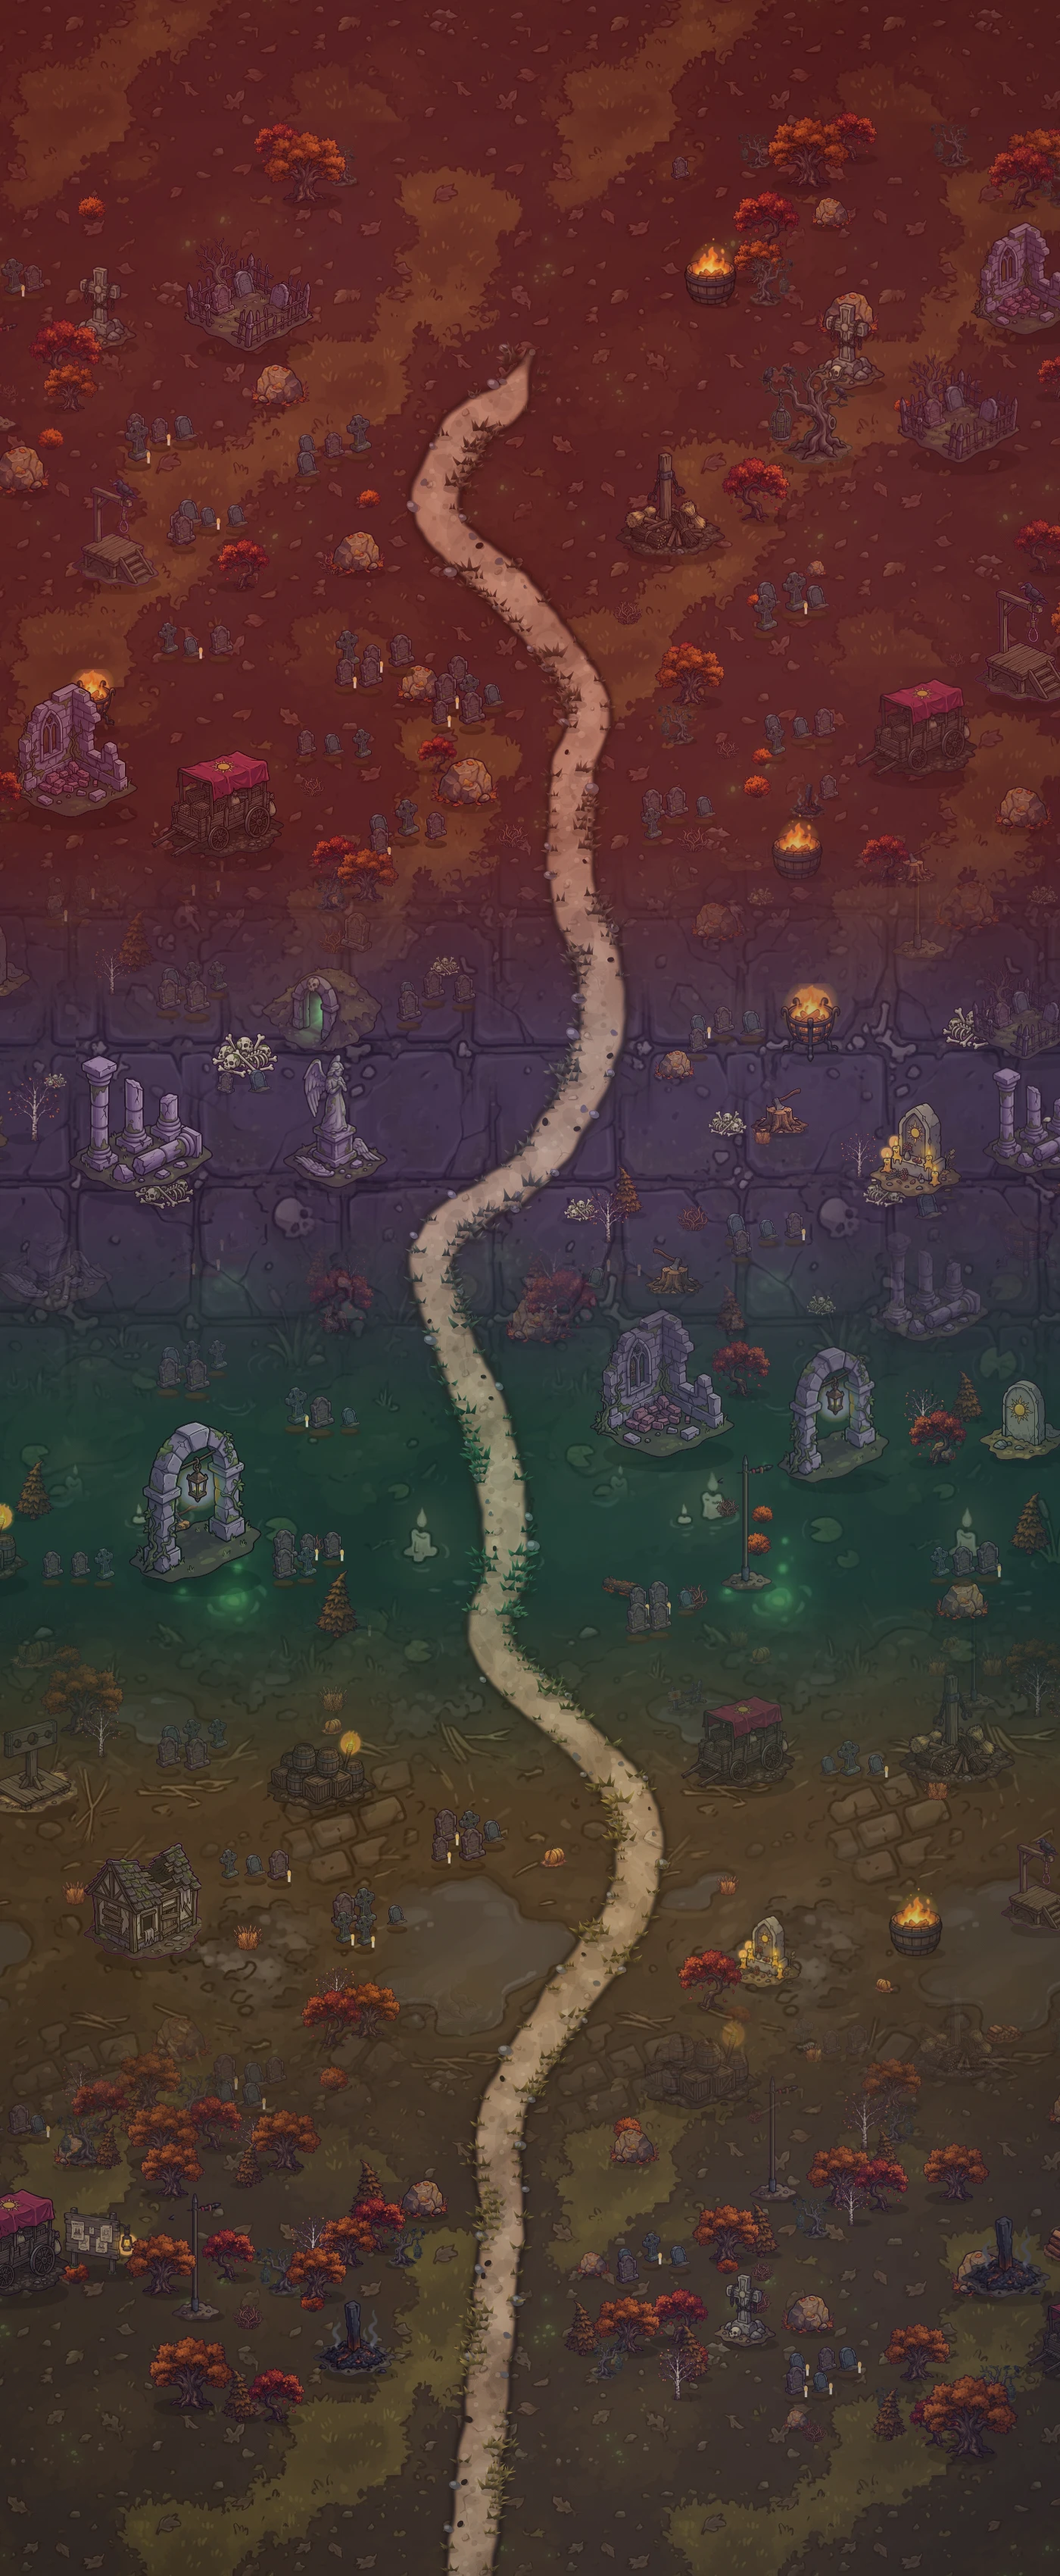
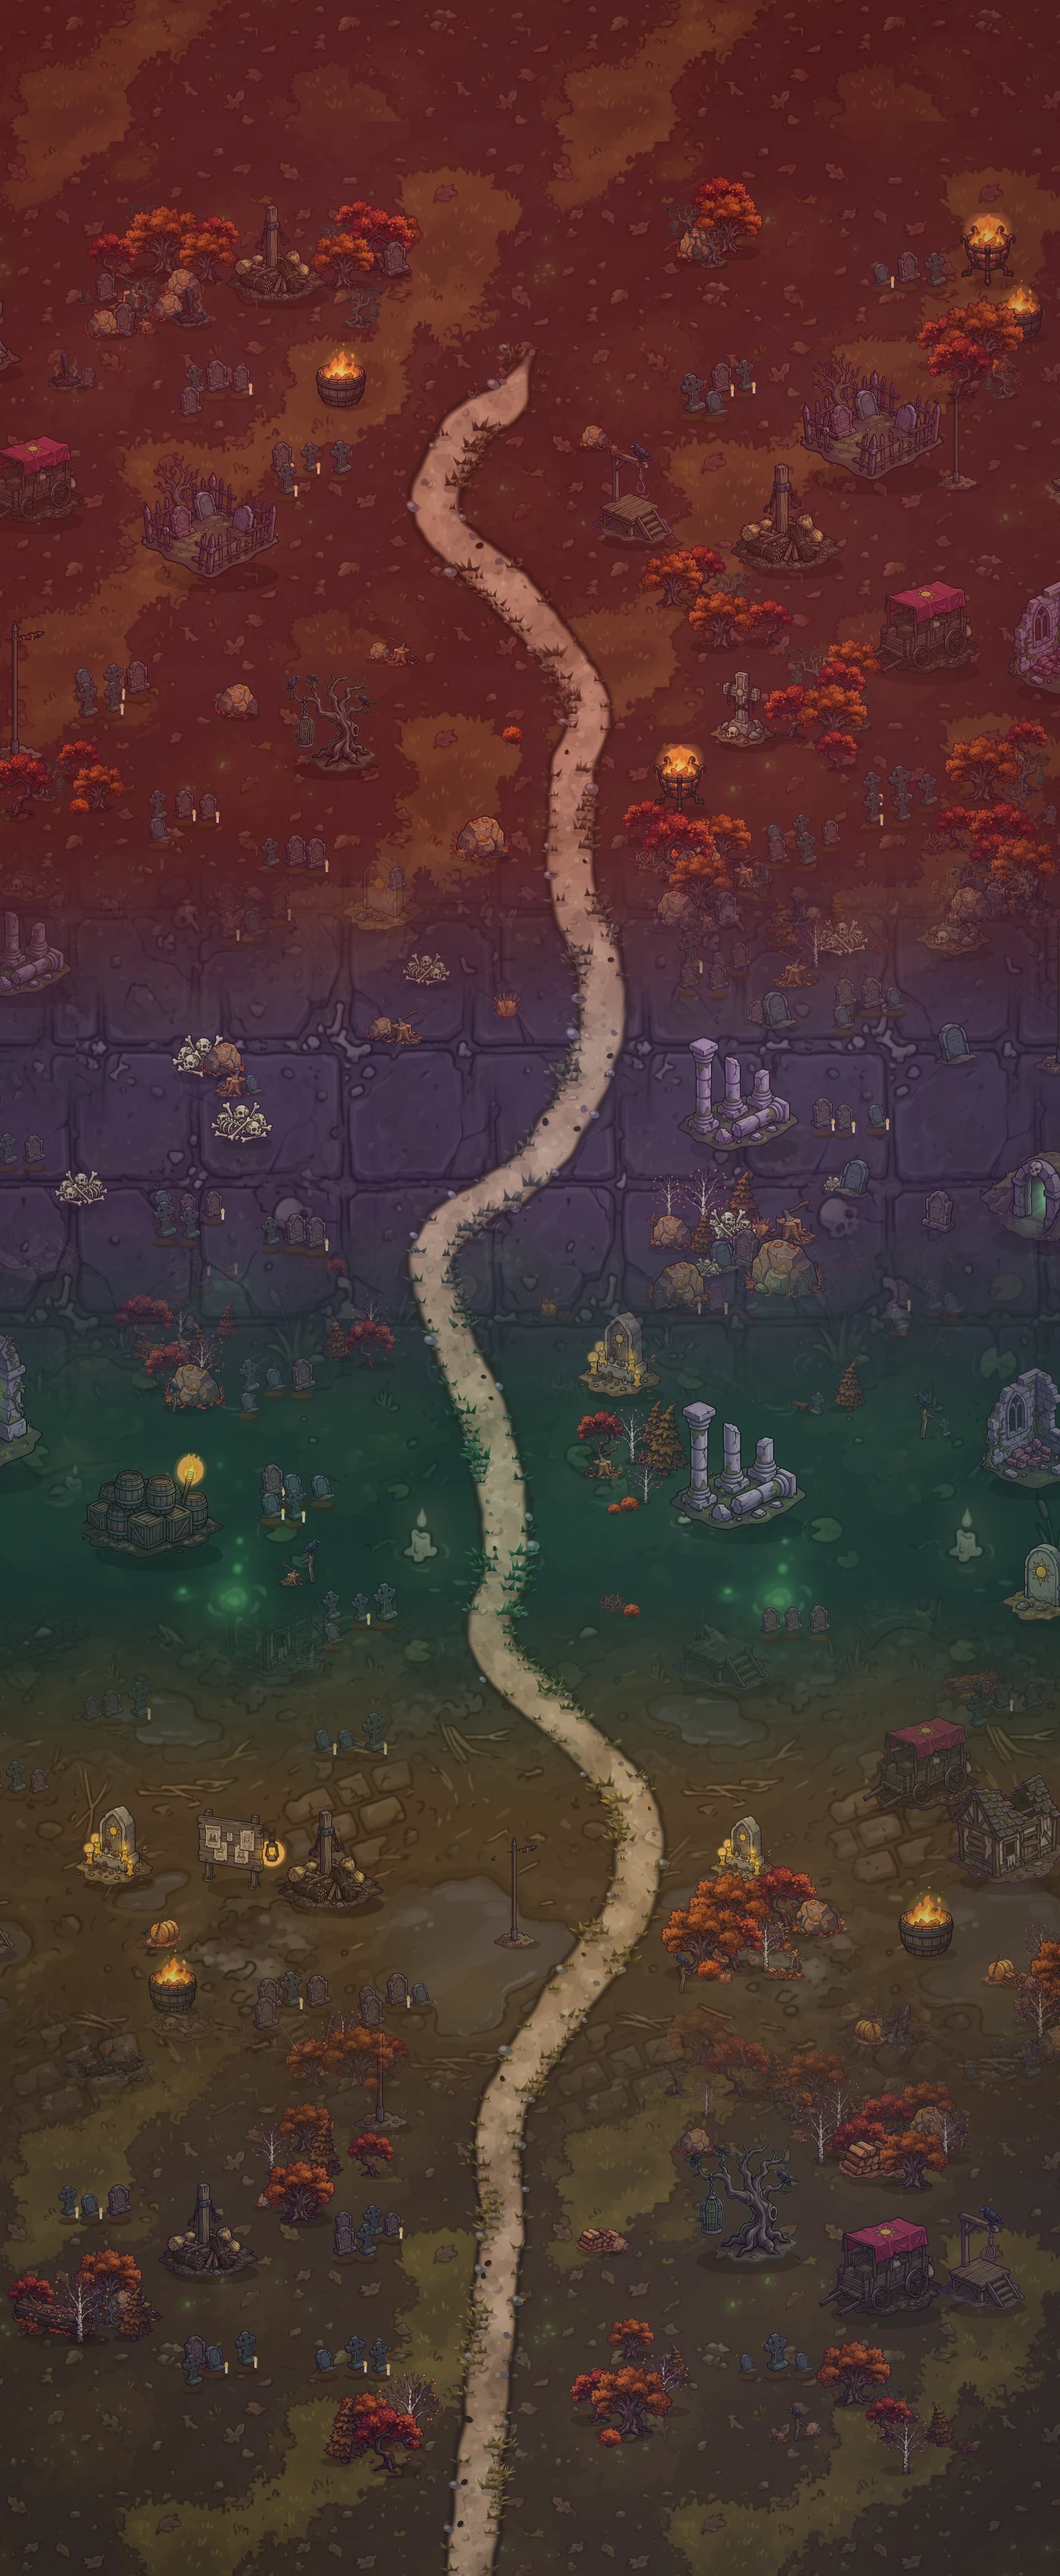
Sefer haritası: 4 kat çözünürlük (4 şeride bölünmüş, yalnız görünen şeritler yüklenir) + doğal dekor yerleşimi (korular, ağaç dibinde çalı, kaya öbekleri x1,6, göller açıklıkta ve kıyısında sazlık/taş) (yayın 637)

diff --git a/sinir-kalesi/js/game.js b/sinir-kalesi/js/game.js
@@ -1768,16 +1768,25 @@ function renderBackground0(lv, paths, res) {
   };
   // vaha gölleri ve çalılar (yerde, gölgesiz)
   const DK = lv.decorK || 1; // dekor yoğunluğu (bölge haritası daha dolu)
+  // 16 Eki (Caner: "haritadaki nesneleri mantıklı yerleştir, rastgele olmasın, doğal olsun"): göl birbirine ve yola yaslanmaz, ağaçlar içine
+  // girmez (pondsAt → props), kenarına (alt yarım daire) sazlık/çalı öbeği ve bir iki taş dizilir
+  const pondsAt = [];
   for (let i = 0, n = 0; i < 300 * DK && n < (th.ponds || 0) * DK; i++) {
-    const x = 90 + rnd() * (W - 180), y = 90 + rnd() * (H - 180), im = spr(th.pondSpr || 's2_pond_2');
-    if (blocked(x, y, 34) || !im) continue;
-    n++;
-    drawSprite(g, im, x, y, 60 + rnd() * 30, 0.5);
-    for (let k = 0; k < 4; k++) { const b = spr(th.bushSpr ? th.bushSpr[k % th.bushSpr.length] : 's2_bush_' + (1 + (k % 2))); if (b) drawSprite(g, b, x + (rnd() - 0.5) * 80, y + 18 + rnd() * 10, 16 + rnd() * 8); }
+    const x = 90 + rnd() * (W - 180), y = 90 + rnd() * (H - 180), im = spr(th.pondSpr || 's2_pond_2'), pw = 60 + rnd() * 30;
+    if (blocked(x, y, 40) || !im || pondsAt.some(o => Math.hypot(o[0] - x, o[1] - y) < 150)) continue;
+    n++; pondsAt.push([x, y, pw * 0.55]);
+    drawSprite(g, im, x, y, pw, 0.5);
+    const a0 = rnd() * 6.283, nb = 3 + Math.floor(rnd() * 2);
+    for (let k = 0; k < nb; k++) { // kıyı: göl elipsinin kenarında, yan yana sazlık öbeği (alt kıyı önde)
+      const a = a0 + k * 0.5 + rnd() * 0.25, b = spr(th.bushSpr ? th.bushSpr[(k + i) % th.bushSpr.length] : 's2_bush_' + (1 + (k % 2)));
+      if (b) drawSprite(g, b, x + Math.cos(a) * pw * 0.48, y + Math.sin(a) * pw * 0.2 + 6, 13 + rnd() * 7);
+    }
+    const rk = th.rockSpr && spr(th.rockSpr[i % th.rockSpr.length]);
+    if (rk) { const a = a0 + Math.PI + rnd(), m = SPR_META[th.rockSpr[i % th.rockSpr.length]], w = m ? m[0] * ROCK_K * (th.rockK || 1) * 0.8 : 14; drawSprite(g, rk, x + Math.cos(a) * pw * 0.5, y + Math.sin(a) * pw * 0.22 + 5, w); }
   }
   const bushSeen = [], brnd = seeded(lv.name.length * 29 + 5); // ayrı tohum: çeşit ve aynalama yerleşimi kaydırmaz
   const rockSeen = [];
-  if (lv.decorK) { // sefer haritası (pişirilmiş zemin): eski düz dağılım kalır; bölüm haritalarında kaya ve çalıyı layoutDecor yerleştirir
+  if (false) { // 16 Eki: sefer haritası da layoutDecor kullanır (eski düz dağılım kapalı)
   for (let i = 0, n = 0; i < 400 * DK && n < (th.bushes || 0) * DK; i++) {
     const x = rnd() * W, y = rnd() * H;
     if (blocked(x, y, 6)) continue;
@@ -1805,7 +1814,7 @@ function renderBackground0(lv, paths, res) {
   // bölümde yol dışı boş kalmasın: tema sayısının ~2 katı ağaç, yarısı küçük kümeler halinde (koru gibi)
   // harabeler (yıkık kilise duvarı, kırık sütunlar, mahzen girişi... nm_ruin_*) ve mezarlık kümeleri: yol dışındaki boşluklara,
   // ağaçlardan önce yerleşir (ağaçlar bunlara binmez)
-  const props = [];
+  const props = pondsAt.slice(); // göllerin üstüne ağaç/harabe binmez
   if (NECRO && (!lv.decorK || th.dense || th.deco)) { // 1. sefer (dense) haritasında da: her mekân parçası tam ekran çizilir, ~1/5'i görünür → 4 kat
     const ruins = (th.ruinSpr || [1, 2, 3, 4, 5, 6].map(n => 'nm_ruin_' + n)).filter(n => spr(n));
     const MK = lv.decorK ? 4 : 1, nR = (ruins.length ? th.ruinN || (th === THEMES.graveyard || th === THEMES.necrogate ? 3 : 2) : 0) * MK, nG = (th === THEMES.graveyard ? 5 : 3) * MK;
@@ -1876,8 +1885,10 @@ function renderBackground0(lv, paths, res) {
   const TGAP = th.dense ? 14 : 18; // orman temalarında ağaçlar daha sık
   const treeOk = (x, y, s) => x > -10 && x < W + 10 && y > 20 && y < H + 10 && !blocked(x, y, s) && !trees.some(t => Math.hypot(t[0] - x, (t[1] - y) * 1.5) < TGAP) && !props.some(o => Math.hypot(o[0] - x, o[1] - y) < o[2] + 12);
   const extra = []; // bölüm haritası: kaya ve çalılar ağaçlarla birlikte y sırasıyla çizilir (ağaç dibindeki çalı gövdenin önünde kalır)
-  if (!lv.decorK) layoutDecor(lv, paths, th, rnd, blocked, props, trees, treeOk, TN, extra, R);
-  else for (let i = 0; i < 3000 * DK && trees.length < TN; i++) {
+  // 16 Eki: sefer haritası da doğal yerleşim (korular, ağaç dibinde çalı, kaya öbekleri); kaya 1,6 kat (Caner: "hiç kaya göremedim")
+  const thL = lv.decorK ? Object.assign({}, th, { rocks: Math.round(th.rocks * DK * 1.6), bushes: Math.round((th.bushes || 0) * DK) }) : th;
+  layoutDecor(lv, paths, thL, rnd, blocked, props, trees, treeOk, TN, extra, R);
+  if (false) for (let i = 0; i < 3000 * DK && trees.length < TN; i++) {
     const x = rnd() * W, y = rnd() * H, s = 10 + rnd() * 9;
     if (!treeOk(x, y, s)) continue;
     trees.push([x, y, s]);
@@ -16255,6 +16266,17 @@ fetch('img/map_bolge.json' + (window.SURUM ? '?v=' + window.SURUM : ''), { cache
     im.src = 'img/' + P.file + (window.SURUM ? '?v=' + window.SURUM : '');
   }
 }).catch(() => { REGION_PRE.wait = false; });
+// 16 Eki: yüksek çözünürlüklü harita şeritleri (map_bolge<N>_t<k>.webp): yalnız ekrana giren (ve bir şerit ötesi) yüklenir, öteki bölgeninkiler bırakılır
+function drawMapTiles(ep, X, V) {
+  const P = REGION_PRE[ep]; if (!P || !P.tiles || REGION_BG[ep] && REGION_BG[ep].noPre) return;
+  for (const e in REGION_PRE) if (+e !== ep && REGION_PRE[e] && REGION_PRE[e].tiles) for (const t of REGION_PRE[e].tiles) t.img = null; // bellek: öteki bölge
+  const pad = (V[3] - V[1]) * 0.6;
+  for (const t of P.tiles) {
+    if (t.y > V[3] + pad || t.y + t.h < V[1] - pad) continue;
+    if (!t.img) { t.img = new Image(); t.img.src = 'img/' + t.file + (window.SURUM ? '?v=' + window.SURUM : ''); }
+    if (t.img.complete && t.img.naturalWidth && t.y < V[3] && t.y + t.h > V[1]) ctx.drawImage(t.img, X.x, t.y, X.w, t.h);
+  }
+}
 function regionRoad(E) {
   const P = [E.start, ...E.nodes, ...gateApproach([E.nodes[E.nodes.length - 1], E.end]).slice(1)], out = [];
   for (let i = 0; i < P.length - 1; i++) { // Catmull-Rom: noktaların hepsinden geçen yumuşak eğri
@@ -16653,6 +16675,7 @@ function drawRegionMap(E, ep, st) {
   const bg = regionBg(ep), R = REGION_BG[ep]; if (!bg) return;
   const X = mapExt(bg), z = MAPCAM.z, V = [(VIS.l - MAPCAM.tx) / z, (VIS.t - MAPCAM.ty) / z, (VIS.r - MAPCAM.tx) / z, (VIS.b - MAPCAM.ty) / z]; // ekranda görünen dünya kutusu
   ctx.drawImage(bg, X.x, X.y, X.w, X.h);
+  drawMapTiles(ep, X, V);
   const road = R.road[0], dt = Math.min(0.05, time - (MAPFX.last || time)); MAPFX.last = time;
   drawBgLights(R.lights, V);
   drawGraveHands(R.hands, uiParts); drawBanners(R.banners, V);
@@ -18886,11 +18909,22 @@ window.__game = {
     for (let i = 0; i < n; i++) { delete THUMB[i]; thumbOf.at = -1; const t = thumbOf(i, true); g.drawImage(t, (i % cols) * 480, Math.floor(i / cols) * 270); delete THUMB[i]; }
     return { n, w: c.width, h: c.height, data: c.toDataURL('image/webp', 0.88) };
   },
-  bakeRegion(ep, bx, by, res = 2) { // tools/harita-pisir.js: bölge haritası zeminini verilen taşma payıyla baştan sona çizer
-    if (EPISODES[ep - 1].vert) res = Math.min(res, MAPV.res); // dikey harita uzun: bellek için daha düşük çözünürlük
+  bakeRegion(ep, bx, by, res = 2, nT = 0) { // tools/harita-pisir.js: bölge haritası zeminini verilen taşma payıyla baştan sona çizer
+    // 16 Eki (Caner: "harita bulanık"): nT > 0 ise yüksek çözünürlükte çizilir ve nT yatay şeride bölünür (tiles; oyunda yalnız görünen şeritler yüklenir);
+    // data yine MAPV.res'e küçültülmüş tek görsel (şeritler gelene kadar ve yedek)
+    if (EPISODES[ep - 1].vert && !nT) res = Math.min(res, MAPV.res); // dikey harita uzun: bellek için daha düşük çözünürlük
     const B0 = BLEED; BLEED = { x: bx, y: by }; delete REGION_BG[ep]; REGION_BG[ep] = { parts: [], res, noPre: true };
     let c; for (let i = 0; i < 20 && !(c = REGION_BG[ep].done); i++) regionBg(ep);
-    const R = REGION_BG[ep], out = { m: c.m, ext: c.ext, res, w: c.width, h: c.height, lights: R.lights, banners: R.banners, hands: R.hands, data: c.toDataURL('image/webp', 0.9) };
+    const R = REGION_BG[ep], out = { m: c.m, ext: c.ext, res, w: c.width, h: c.height, lights: R.lights, banners: R.banners, hands: R.hands };
+    if (nT && c.ext) {
+      const lo = document.createElement('canvas'), k = MAPV.res / res; lo.width = Math.round(c.width * k); lo.height = Math.round(c.height * k);
+      const lg = lo.getContext('2d'); lg.imageSmoothingQuality = 'high'; lg.drawImage(c, 0, 0, lo.width, lo.height); out.data = lo.toDataURL('image/webp', 0.9); out.res = MAPV.res;
+      out.tiles = []; const bh = Math.ceil(c.height / nT);
+      for (let i = 0; i < nT; i++) {
+        const y0 = i * bh, h = Math.min(bh, c.height - y0), t = document.createElement('canvas'); t.width = c.width; t.height = h;
+        t.getContext('2d').drawImage(c, 0, -y0); out.tiles.push({ y: c.ext.y + y0 / res, h: h / res, data: t.toDataURL('image/webp', 0.88) });
+      }
+    } else out.data = c.toDataURL('image/webp', 0.9);
     BLEED = B0; delete REGION_BG[ep]; return out;
   },
   openGrave() { const h = G && G.hatches.find(q => q.grave && q.state === 'closed'); if (!h) return false; G.gold += GRAVE.cost; return openHatch(h); }, // test: mezar bekçisini kaldır

diff --git a/sinir-kalesi/tools/harita-pisir.js b/sinir-kalesi/tools/harita-pisir.js
@@ -4,7 +4,7 @@
 // Sunucu 8765'te açıkken: node tools/harita-pisir.js   (taşma payı: 20:9 telefon ve 4:3 tablete yeter; daha geniş pencerede oyun kendisi çizer)
 const { chromium } = require('playwright');
 const fs = require('fs'), path = require('path');
-const BX = 180, BY = 110, RES = 2;
+const BX = 180, BY = 110, RES = 2, HI = 4, NT = 4; // 16 Eki: dikey bölge haritaları HI çözünürlükte NT şerit (map_bolge<N>_t<k>.webp) + RES'te yedek
 (async () => {
   const b = await chromium.launch(); const p = await b.newPage({ viewport: { width: 960, height: 540 } });
   const errs = []; p.on('pageerror', e => errs.push(e.message));
@@ -14,10 +14,12 @@ const BX = 180, BY = 110, RES = 2;
   const eps = await p.evaluate(() => EPISODES.map((E, i) => (E.zones ? i + 1 : 0)).filter(Boolean));
   const img = path.join(__dirname, '..', 'img'), meta = {};
   for (const ep of eps) {
-    const r = await p.evaluate(([ep, bx, by, res]) => window.__game.bakeRegion(ep, bx, by, res), [ep, BX, BY, RES]);
+    const vert = await p.evaluate((ep) => !!EPISODES[ep - 1].vert, ep);
+    const r = await p.evaluate(([ep, bx, by, res, nt]) => window.__game.bakeRegion(ep, bx, by, res, nt), [ep, BX, BY, vert ? HI : RES, vert ? NT : 0]);
     const file = `map_bolge${ep}.webp`;
     fs.writeFileSync(path.join(img, file), Buffer.from(r.data.split(',')[1], 'base64'));
     meta[ep] = { file, m: r.m, ext: r.ext, res: r.res, lights: r.lights, banners: r.banners, hands: r.hands }; // ext: dikey haritanın dünya kutusu
+    if (r.tiles) meta[ep].tiles = r.tiles.map((t, k) => { const f = `map_bolge${ep}_t${k}.webp`; fs.writeFileSync(path.join(img, f), Buffer.from(t.data.split(',')[1], 'base64')); console.log(' ', f, Math.round(fs.statSync(path.join(img, f)).size / 1024) + ' KB'); return { file: f, y: t.y, h: t.h }; });
     console.log(file, r.w + 'x' + r.h, Math.round(fs.statSync(path.join(img, file)).size / 1024) + ' KB', 'ışık', r.lights.length, 'sancak', r.banners.length, 'el', r.hands.length);
   }
   fs.writeFileSync(path.join(img, 'map_bolge.json'), JSON.stringify(meta));

diff --git a/sinir-kalesi/index.html b/sinir-kalesi/index.html
@@ -17,7 +17,7 @@
 <canvas id="game" aria-label="Sınır Kalesi oyun alanı"></canvas>
 <script>
   // Sürüm damgası: her yayında artırılır; tarayıcı eski önbellek kopyasını kullanmaz (js ve görseller).
-  window.SURUM = '636';
+  window.SURUM = '637';
   // dil: kayıtlı seçim (yoksa Türkçe); tr/en dışındakiler için çeviri sözlüğü dil.js'ten önce yüklenir
   window.__dilYukle = (function () {
     var l = null; try { l = localStorage.getItem('sinirKalesi.lang'); } catch (e) {}

diff --git a/sinir-kalesi/yayin.html b/sinir-kalesi/yayin.html
@@ -11,7 +11,7 @@
 <canvas id="game" aria-label="Sınır Kalesi oyun alanı"></canvas>
 <script>
   // Sürüm damgası: her yayında artırılır; tarayıcı eski önbellek kopyasını kullanmaz (js ve görseller).
-  window.SURUM = '636';
+  window.SURUM = '637';
   // dil: kayıtlı seçim (yoksa Türkçe); tr/en dışındakiler için çeviri sözlüğü dil.js'ten önce yüklenir
   window.__dilYukle = (function () {
     var l = null; try { l = localStorage.getItem('sinirKalesi.lang'); } catch (e) {}
